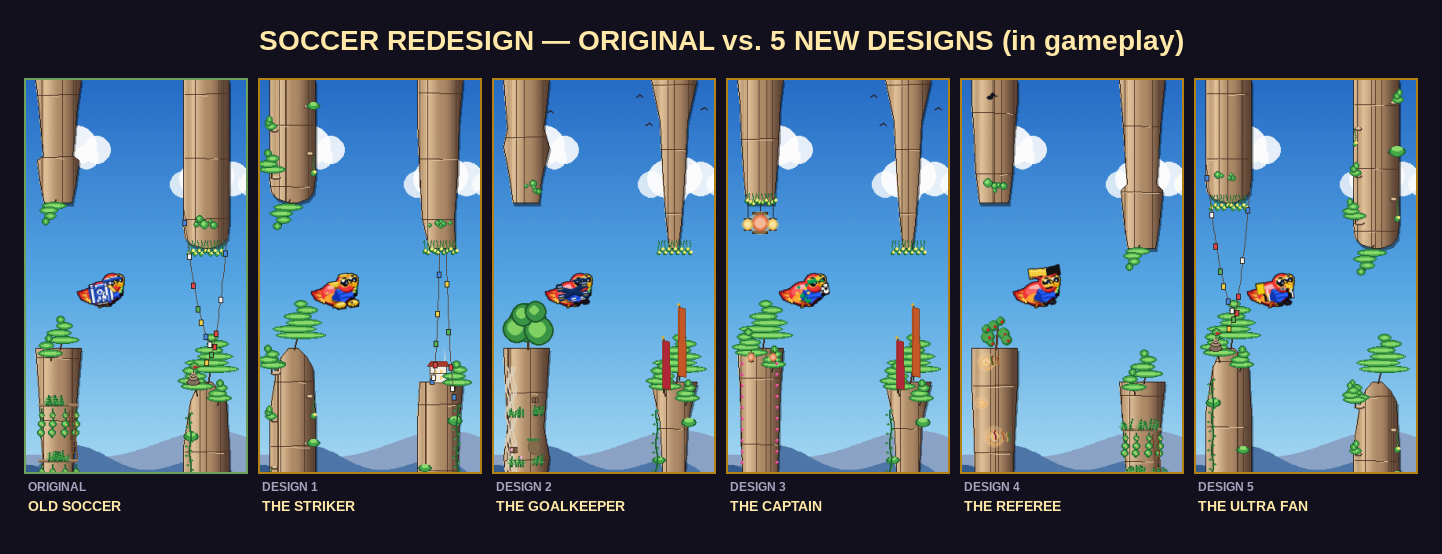
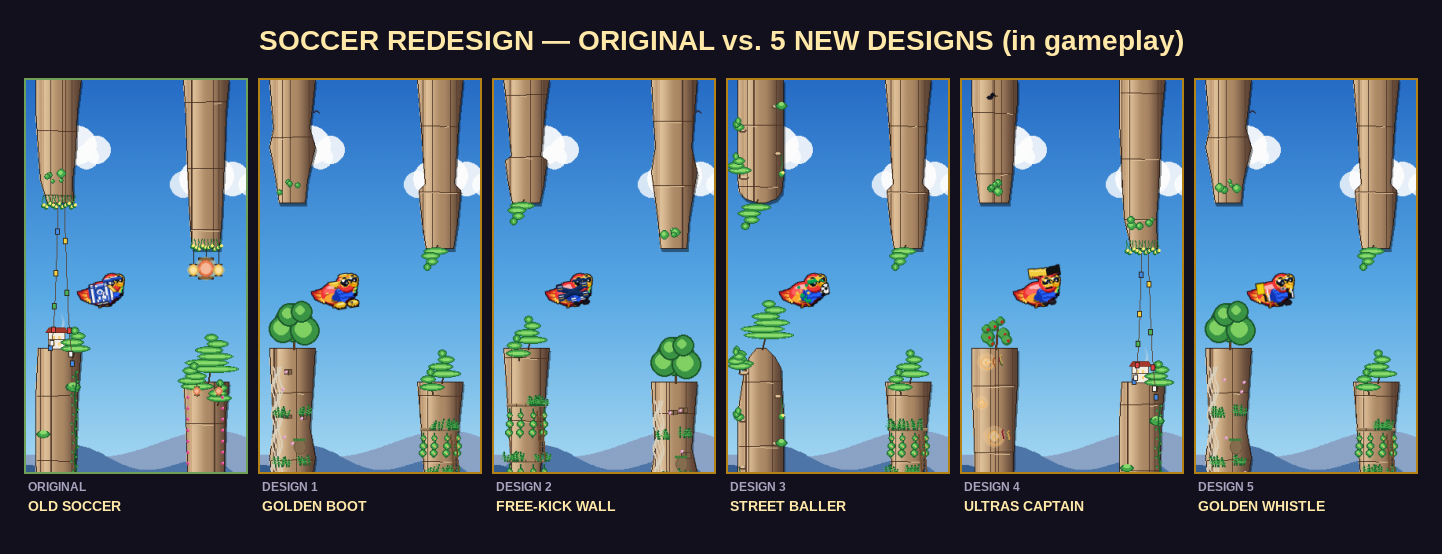
Soccer comparison: update labels to new concepts (Golden Boot / Free-Kick Wall / Street Baller / Ultras Captain / Golden Whistle)

diff --git a/tools/render_soccer_compare.py b/tools/render_soccer_compare.py
@@ -20,11 +20,11 @@ from game.hud import _font, _GOLD_PALE, _GOLD_DEEP
 
 COLUMNS = [
     ("ORIGINAL", "OLD SOCCER", "orig"),
-    ("DESIGN 1", "THE STRIKER", "design_1"),
-    ("DESIGN 2", "THE GOALKEEPER", "design_2"),
-    ("DESIGN 3", "THE CAPTAIN", "design_3"),
-    ("DESIGN 4", "THE REFEREE", "design_4"),
-    ("DESIGN 5", "THE ULTRA FAN", "design_5"),
+    ("DESIGN 1", "GOLDEN BOOT", "design_1"),
+    ("DESIGN 2", "FREE-KICK WALL", "design_2"),
+    ("DESIGN 3", "STREET BALLER", "design_3"),
+    ("DESIGN 4", "ULTRAS CAPTAIN", "design_4"),
+    ("DESIGN 5", "GOLDEN WHISTLE", "design_5"),
 ]
 
 
